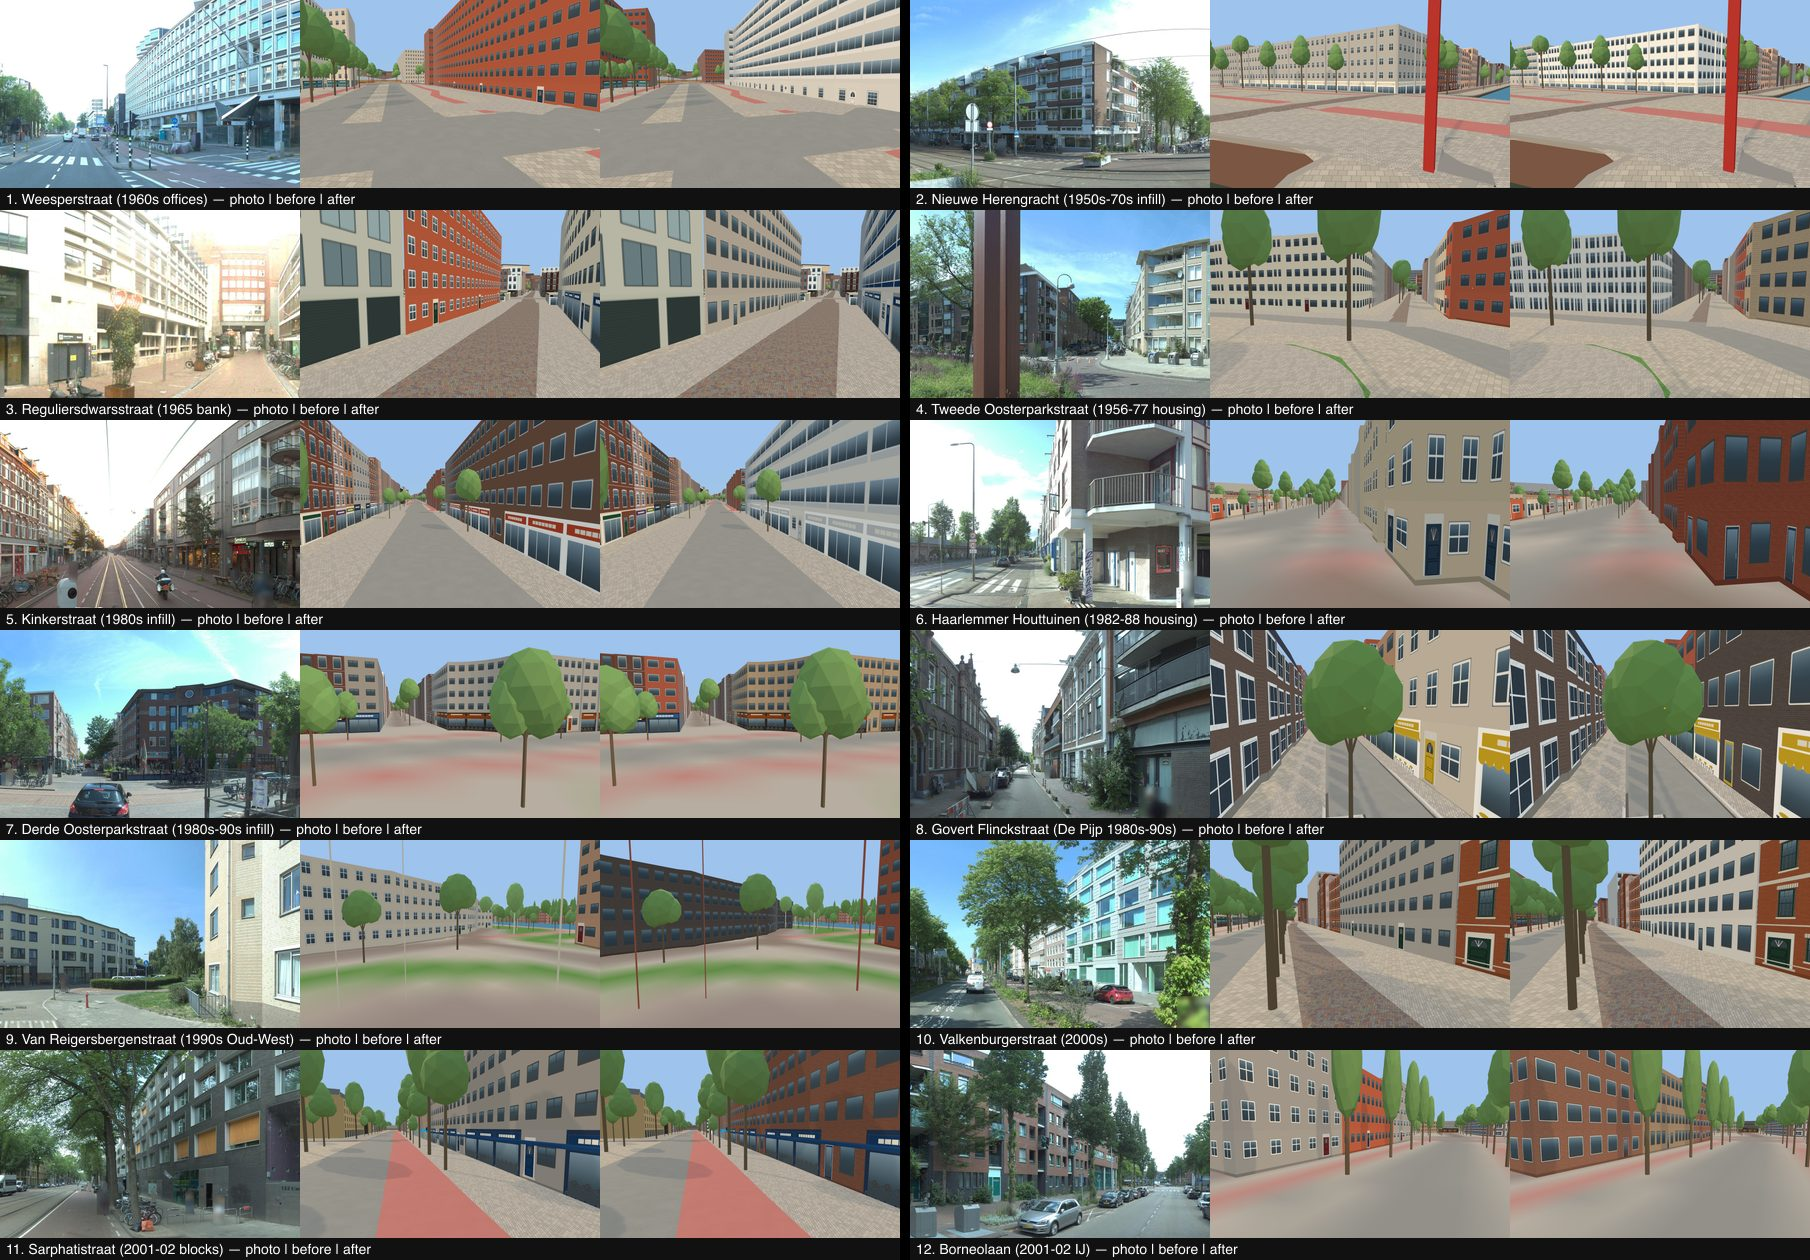
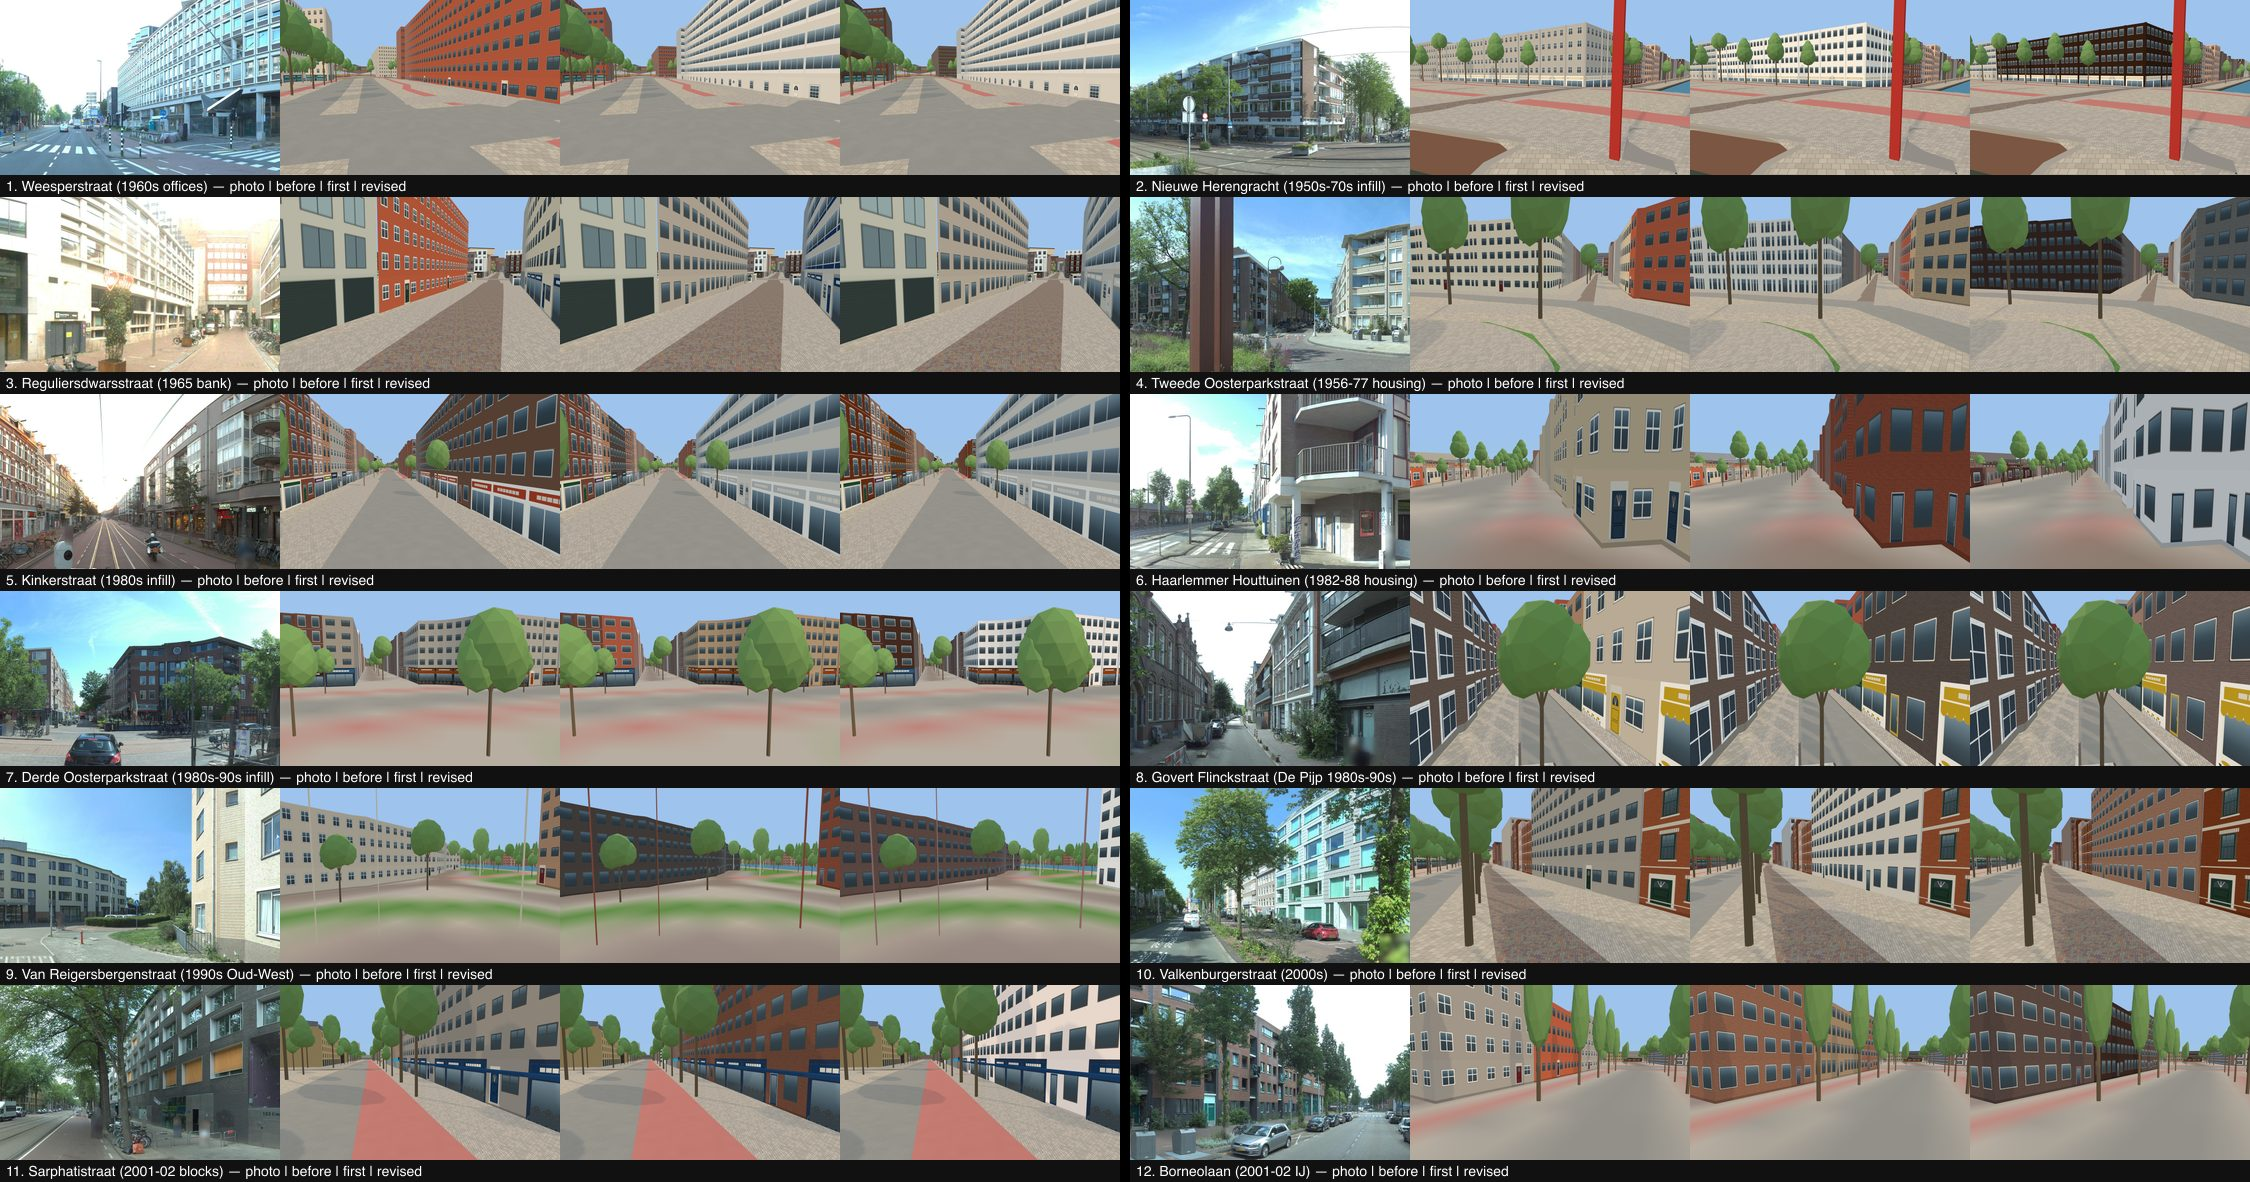
Modern paint keeps 35% of its measured tint; sheet with revised column; handoff per-spot verdicts (#117 review)

diff --git a/src/canalRecall/modernFacades.ts b/src/canalRecall/modernFacades.ts
@@ -18,10 +18,17 @@
  * stay byte-identical; `check-modern-facades` / `modernFacades.test.ts` pin both.
  */
 import { isPaintedHex, pickWeighted, unitDraw, type EraProfile } from './buurtProfiles/profiles.js';
-import { rgbToLab } from './look/brickTone.js';
+import { labToRgb, rgbToLab } from './look/brickTone.js';
 
 /** CIE L* of a hex: a very light measured swatch (cream render, white panels) is paint whatever its tint. */
-const lightnessOf = (hex: string) => rgbToLab([1, 3, 5].map(i => parseInt(hex.slice(i, i + 2), 16)))[0];
+const labOf = (hex: string) => rgbToLab([1, 3, 5].map(i => parseInt(hex.slice(i, i + 2), 16)));
+const lightnessOf = (hex: string) => labOf(hex)[0];
+/**
+ * Render and paint keep PAINT_TINT of their measured chroma: the calibrated light swatches carry a peach cast from the
+ * thumbnails (Sarphatistrook #ffdfcf drew a pink block; review sheet 2026-10-30).
+ */
+export const PAINT_TINT = 0.35;
+const neutralised = (hex: string) => { const [L, a, b] = labOf(hex); return '#' + labToRgb([L, a * PAINT_TINT, b * PAINT_TINT]).map(v => Math.round(Math.max(0, Math.min(255, v))).toString(16).padStart(2, '0')).join(''); };
 
 /**
  * A/B: `?modernFacades=0` (passed to the chunk worker) draws every post-1945 building as before. A test can set
@@ -147,7 +154,7 @@ export function modernVocabulary(f: ModernFacts, measured?: EraProfile | null): 
       const same = options.filter(([s]) => fits(s) && s !== 'ribbon' && s !== 'curtain');
       style = same.length ? pick(f.id, 'modern-style-measured', same) : painted ? 'smoothDark' : 'brickDark';
     }
-    return { era, use, style, styleIndex: MODERN_STYLE[style], family: painted ? 'measured-paint' : 'measured-brick', wall };
+    return { era, use, style, styleIndex: MODERN_STYLE[style], family: painted ? 'measured-paint' : 'measured-brick', wall: painted ? neutralised(wall) : wall };
   }
   const walls = WALLS[era][BRICK.has(style) ? 'brick' : 'smooth'];
   const family = pick(f.id, 'modern-wall', walls) as keyof typeof MODERN_WALLS;

diff --git a/src/canalRecall/modernFacades.test.ts b/src/canalRecall/modernFacades.test.ts
@@ -93,7 +93,7 @@ test('a measured modern era decides the wall and the material; banded offices ke
   for (const id of ids.slice(0, 300)) {
     const f = { id, year: 1986, heightM: 14, footprintM2: 700 };
     const p = modernVocabulary(f, painted)!, b = modernVocabulary(f, brick)!;
-    assert.equal(p.wall, '#e8e6e0'); assert.notEqual(BAY_STYLES.modern[p.styleIndex].wallMaterial, 'brick');
+    assert.equal(p.family, 'measured-paint'); assert.ok(Math.abs(parseInt(p.wall.slice(1, 3), 16) - 0xe8) <= 4); assert.notEqual(BAY_STYLES.modern[p.styleIndex].wallMaterial, 'brick');
     assert.equal(b.wall, '#5a463e'); assert.equal(BAY_STYLES.modern[b.styleIndex].wallMaterial, 'brick');
     assert.deepEqual(modernVocabulary(f, { n: 3 }), modernVocabulary(f));
     const office = { id, year: 1970, heightM: 24, footprintM2: 2500 }, o = modernVocabulary(office)!;

diff --git a/docs/handoffs/lane-modern-generic-20261029.md b/docs/handoffs/lane-modern-generic-20261029.md
@@ -44,6 +44,34 @@ The gaps, before:
 - Buff brick is desaturated: the first pass read ochre-yellow at Derde Oosterparkstraat.
 - A/B: `?modernFacades=0`, passed to the chunk worker alongside `?buurtProfiles` (`threeBuildingsBrowser.ts`).
 
+## Review round (2026-10-30): walls from measured data
+
+The integrator's review found that a fixed city-wide wall family per era contradicts a share of the photos: spots 6,
+9 and 11. Lane #118 (`lane/buurt-lightness-20261029`, f61bbb1bf) is merged in first.
+
+- `scripts/buurt-profiles/sample-panos.ts --modern` measures BAG year >= 1945 pands (7-45 m high, 40-5,000 m2). It
+  wrote `staging/buurt-profiles/pano-samples-modern.json` (untracked): 1,635 fronts in 207 buurten.
+- `scripts/buurt-profiles/derive.ts` feeds those samples into the modern era only. The exposure fit, the profile
+  level, `n`, the older eras and the grid stay byte-identical to #118's staging set (checked: 0 of 209 profiles
+  differ outside `eras.modern`). Two further rules apply to modern-pass samples only:
+  - a front with thumbnail L >= 66 counts as paint;
+  - post-war brick takes 0.55 of the city chroma lift (`MODERN_BRICK_CHROMA`).
+  121 of 209 profiles now carry measured modern walls. `buurt-profiles.json` is republished, so it also carries
+  #118's recalibration.
+- `modernVocabulary(f, buurt.eras.modern)` draws the wall from that distribution. The measured material picks a
+  brick or smooth preset. Paint keeps 35 % of its tint (`PAINT_TINT`). Ribbon and curtain offices are unchanged.
+- Sheet columns are now photo | before | first | revised. Per spot, revised against the photo:
+  - Better: 6 Haarlemmer Houttuinen (now white render, as the photo), and 1 and 5 (kept).
+  - Unchanged: 3 and 10.
+  - Worse: 7 Derde Oosterparkstraat. Revised draws pale render where the photo shows dark brick.
+  - Not fixed: 9 Van Reigersbergenstraat, still dark brown where the photo is pale buff. 11 Sarphatistraat now reads
+    pale pinkish render where the photo shows dark grey brick, worse than "first".
+  - Mixed: 2 and 4 are now dark brick, which is partly right (brick behind, pale render with balconies in front).
+  - Same: 8 and 12, dark brick, plausible.
+- Root limit: a weighted draw from the buurt's distribution cannot hit an individual building. The next step is the
+  sampled pand's own measured wall where one exists (1,635 pands), or a per-street distribution. Peach casts remain
+  in the light swatches.
+
 ## Proofs
 
 - `node --import tsx --test src/canalRecall/modernFacades.test.ts` (7 tests). The preset indices match their presets
